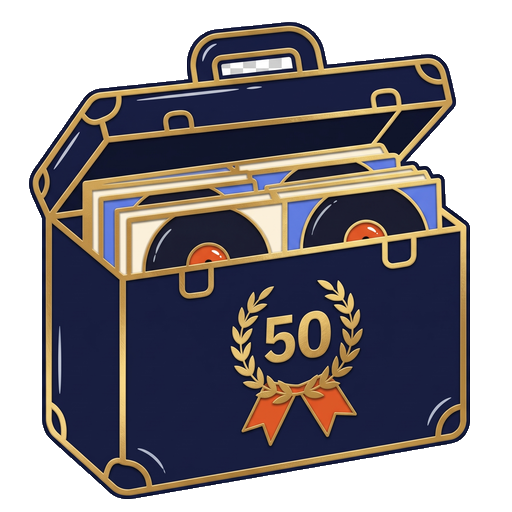
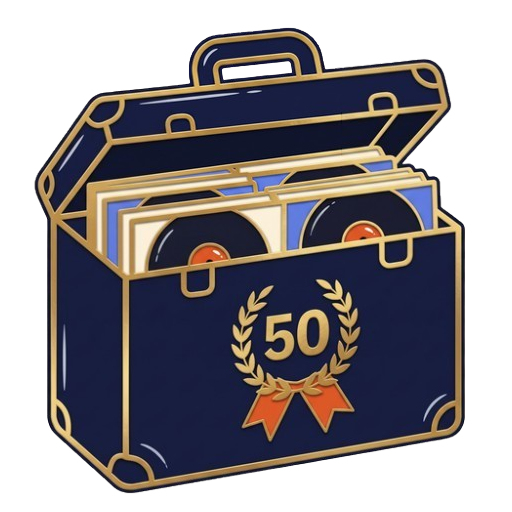
feat(achievements): 15 новых PNG-пинов + перезалив B2 + D4 «Из Японии»
Разложены дизайны серий D/E/F/J/K: переименованы в icon_slug, вписаны
в квадрат 512×512 с прозрачным паддингом (два исходника были не квадратные),
зарегистрированы в DESIGN_PNGS.

B2 «Коллекционер» — новый пин, нормализован с 500² до 512².
D4 переименована «Из Токио» → «Из Японии» (в коде и планах).

Changed region(s): [[0.0312, 0.0312, 0.9375, 1.0]]

diff --git a/Вертушка/Mobile/assets/achievements/designs/index.ts b/Вертушка/Mobile/assets/achievements/designs/index.ts
@@ -1,5 +1,5 @@
 // Финальные PNG-дизайны пинов (512×512). Ключ — icon_slug ачивки.
-// Источник — _raw/*.png (2048²), ресайз через sips -Z 512.
+// Источник — генерации после removebg, вписаны в квадрат 512² с прозрачным паддингом.
 // Показываются ТОЛЬКО для открытых ачивок (см. AchievementPin.pickAsset).
 import type { ImageSourcePropType } from 'react-native';
 
@@ -18,6 +18,21 @@ export const DESIGN_PNGS: Record<string, ImageSourcePropType> = {
   c5_collectible_x15: require('./c5_collectible_x15.png'),
   c6_hot_in_wishlist: require('./c6_hot_in_wishlist.png'),
   d3_country_x30: require('./d3_country_x30.png'),
+  d4_japanese_x10: require('./d4_japanese_x10.png'),
+  d5_melodiya_x10: require('./d5_melodiya_x10.png'),
+  d6_uk_collectible_x3: require('./d6_uk_collectible_x3.png'),
+  e1_60s: require('./e1_60s.png'),
+  e2_70s: require('./e2_70s.png'),
+  e3_80s: require('./e3_80s.png'),
+  e4_modern: require('./e4_modern.png'),
+  e5_pre_1960: require('./e5_pre_1960.png'),
+  f2_diversity_10: require('./f2_diversity_10.png'),
+  f3_jazz_x25: require('./f3_jazz_x25.png'),
+  f4_electronic_x25: require('./f4_electronic_x25.png'),
+  j1_first_gift: require('./j1_first_gift.png'),
+  j2_gift_done: require('./j2_gift_done.png'),
+  j3_three_recipients: require('./j3_three_recipients.png'),
+  k3_followers_x5: require('./k3_followers_x5.png'),
   meta_foundation: require('./meta_foundation.png'),
   meta_scale: require('./meta_scale.png'),
   r_self_titled: require('./r_self_titled.png'),

diff --git a/Вертушка/Backend/app/services/achievements/definitions/series/geography.py b/Вертушка/Backend/app/services/achievements/definitions/series/geography.py
@@ -8,7 +8,7 @@ Phase 3 (реализовано): считает по `Record.country` / `Record
 - D1 «Космополит»       — 5 разных стран
 - D2 «Глобус»           — 15 стран
 - D3 «Кругосветка»      — 30 стран
-- D4 «Из Токио»         — 10 японских прессов (country=Japan)
+- D4 «Из Японии»         — 10 японских прессов (country=Japan)
 - D5 «Мелодия»          — 10 пластинок Melodiya (label ILIKE)
 - D6 «Британский почерк» — 3 коллекционки country=UK
 - D7 «Made in Germany»  — 10 пластинок Germany / West Germany / East Germany
@@ -244,7 +244,7 @@ DEFINITIONS: list[AchievementDefinition] = [
     ),
     AchievementDefinition(
         code=D4_CODE,
-        title_ru="Из Токио",
+        title_ru="Из Японии",
         description_ru="10 японских прессов.",
         description_done_ru="10 японских прессов собрано.",
         series="geography",

diff --git a/Вертушка/docs/plans/ACHIEVEMENT_PIN_PROMPTS.md b/Вертушка/docs/plans/ACHIEVEMENT_PIN_PROMPTS.md
@@ -36,7 +36,7 @@
 | `D1_country_x5` | Космополит | 💧 | Чемодан-кейс для пластинок с пятью наклейками-штампами разных стран. |
 | `D2_country_x15` | Глобус | 🔵 | Глобус, меридианы — это канавки винила, подставка золотая. |
 | `D3_country_x30` | Кругосветка | 🌸 | Глобус, опоясан пунктирным маршрутом-канавкой с самолётиком, 30 флажков-точек по линии. Sparkle ×2. |
-| `D4_japanese_x10` | Из Токио | 🌸 | Пластинка с obi-полоской (японский боковой стикер) ivory с вертикальными иероглифами, красный круг-солнце как лейбл. |
+| `D4_japanese_x10` | Из Японии | 🌸 | Пластинка с obi-полоской (японский боковой стикер) ivory с вертикальными иероглифами, красный круг-солнце как лейбл. |
 | `D5_melodiya_x10` | Мелодия | 🌸 | Лейбл «Мелодия» — синий логотип-молния на пластинке, ретро-советская типографика. |
 | `D6_uk_collectible_x3` | Британский почерк | 🌸 | Пластинка-конверт в стиле британского пресса, Union Jack свёрнут в виде канавки/спирали. |
 | `D7_german_x10` | Made in Germany | 🌸 | Пластинка с гербовым штампом «Made in Germany», строгая геометрия Баухаус, рамка-уголки. |

diff --git a/Вертушка/docs/plans/PLAN_ACHIEVEMENTS_V2.md b/Вертушка/docs/plans/PLAN_ACHIEVEMENTS_V2.md
@@ -215,7 +215,7 @@
 | `D1_country_x5`        | **Космополит**        | 💧  | Пластинки из 5 разных стран.                              |
 | `D2_country_x15`       | **Глобус**            | 🔵  | Из 15 стран.                                              |
 | `D3_country_x30`       | **Кругосветка**       | 🌸  | Из 30 стран.                                              |
-| `D4_japanese_x10`      | **Из Токио**          | 🌸  | 10 японских прессов.                                      |
+| `D4_japanese_x10`      | **Из Японии**          | 🌸  | 10 японских прессов.                                      |
 | `D5_melodiya_x10`      | **Мелодия**           | 🌸  | 10 пластинок лейбла Melodiya / `country=USSR`.            |
 | `D6_uk_collectible_x3` | **Британский почерк** | 🌸  | 3 коллекционки `country=UK`.                              |
 | `D7_german_x10`        | **Made in Germany**   | 🌸  | 10 пластинок из Germany / West Germany.                   |

diff --git a/Вертушка/docs/plans/PLAN_ACHIEVEMENTS_PINS_PROMPT_FULL.md b/Вертушка/docs/plans/PLAN_ACHIEVEMENTS_PINS_PROMPT_FULL.md
@@ -286,7 +286,7 @@ Same enamel pin style as the previous Vertushka pins (gold contour, navy outline
 Output: 1024×1024 PNG, transparent background.
 ```
 
-#### `D4_japanese_x10` — Из Токио 🌸
+#### `D4_japanese_x10` — Из Японии 🌸
 > Метафора: 10 японских прессов — тория-ворота перед пластинкой, Фудзи на фоне.
 
 ```text
